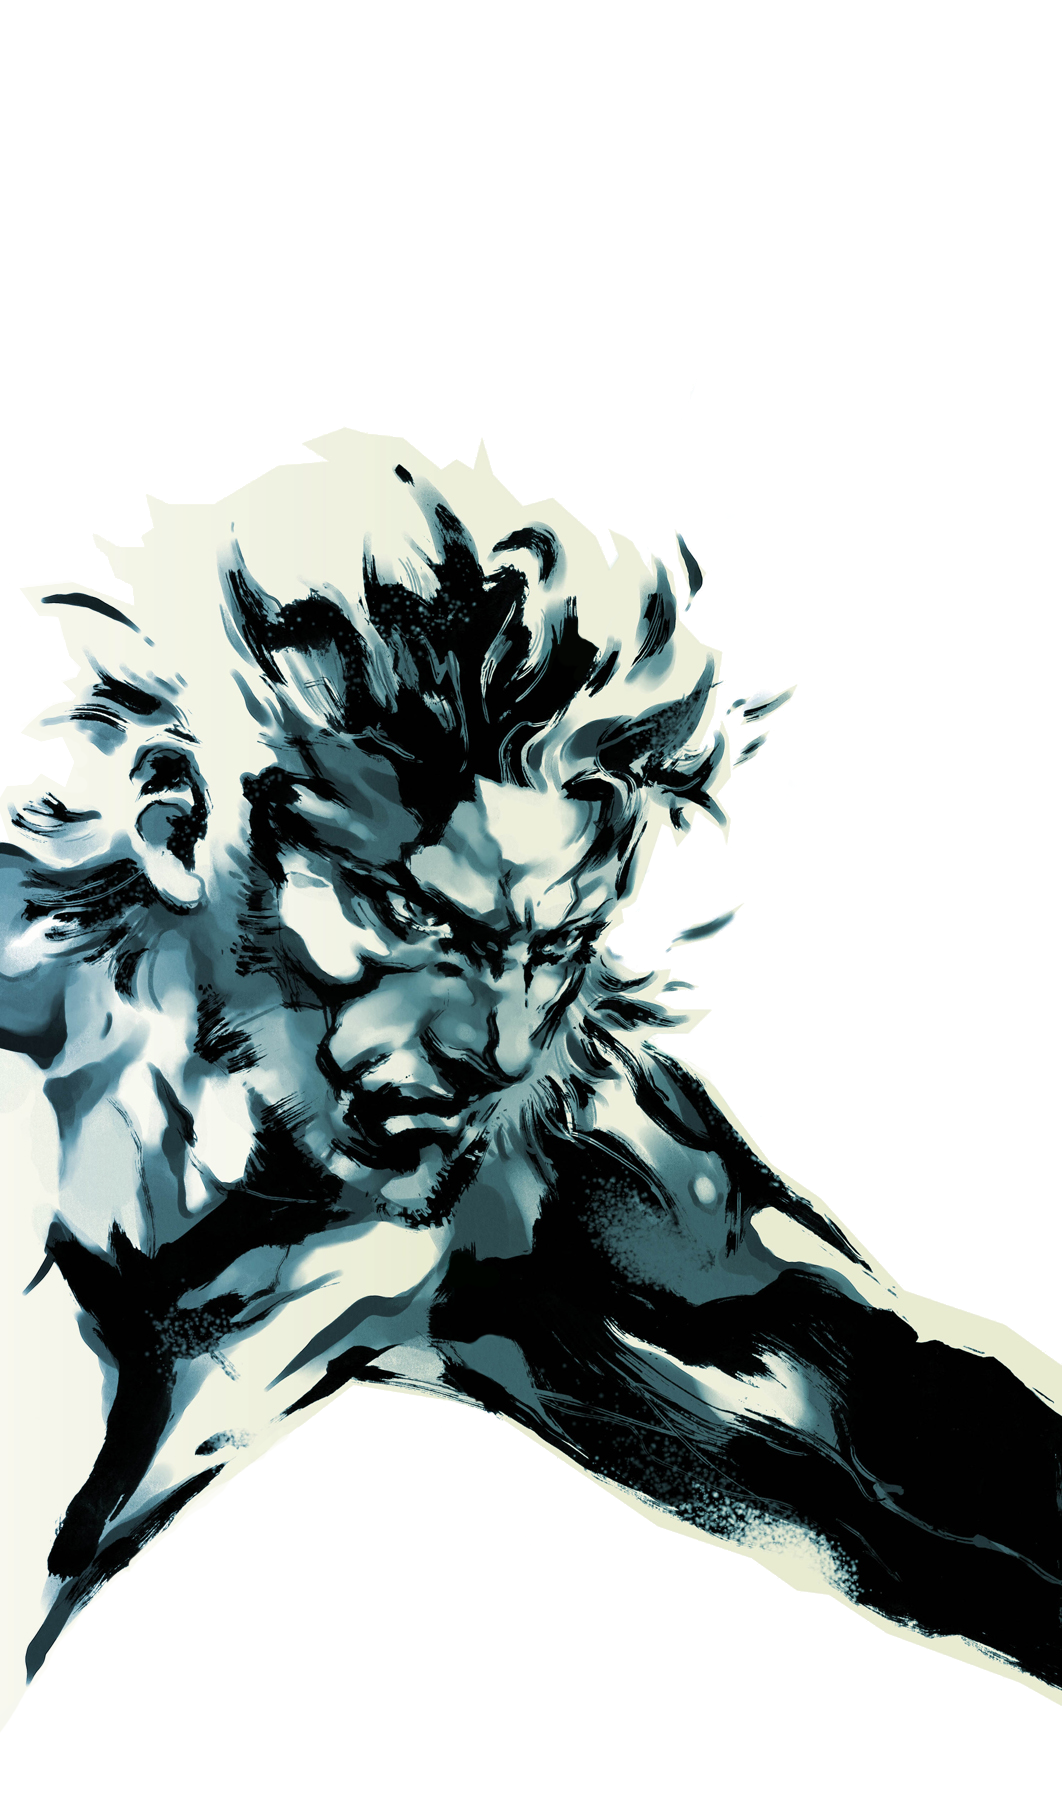
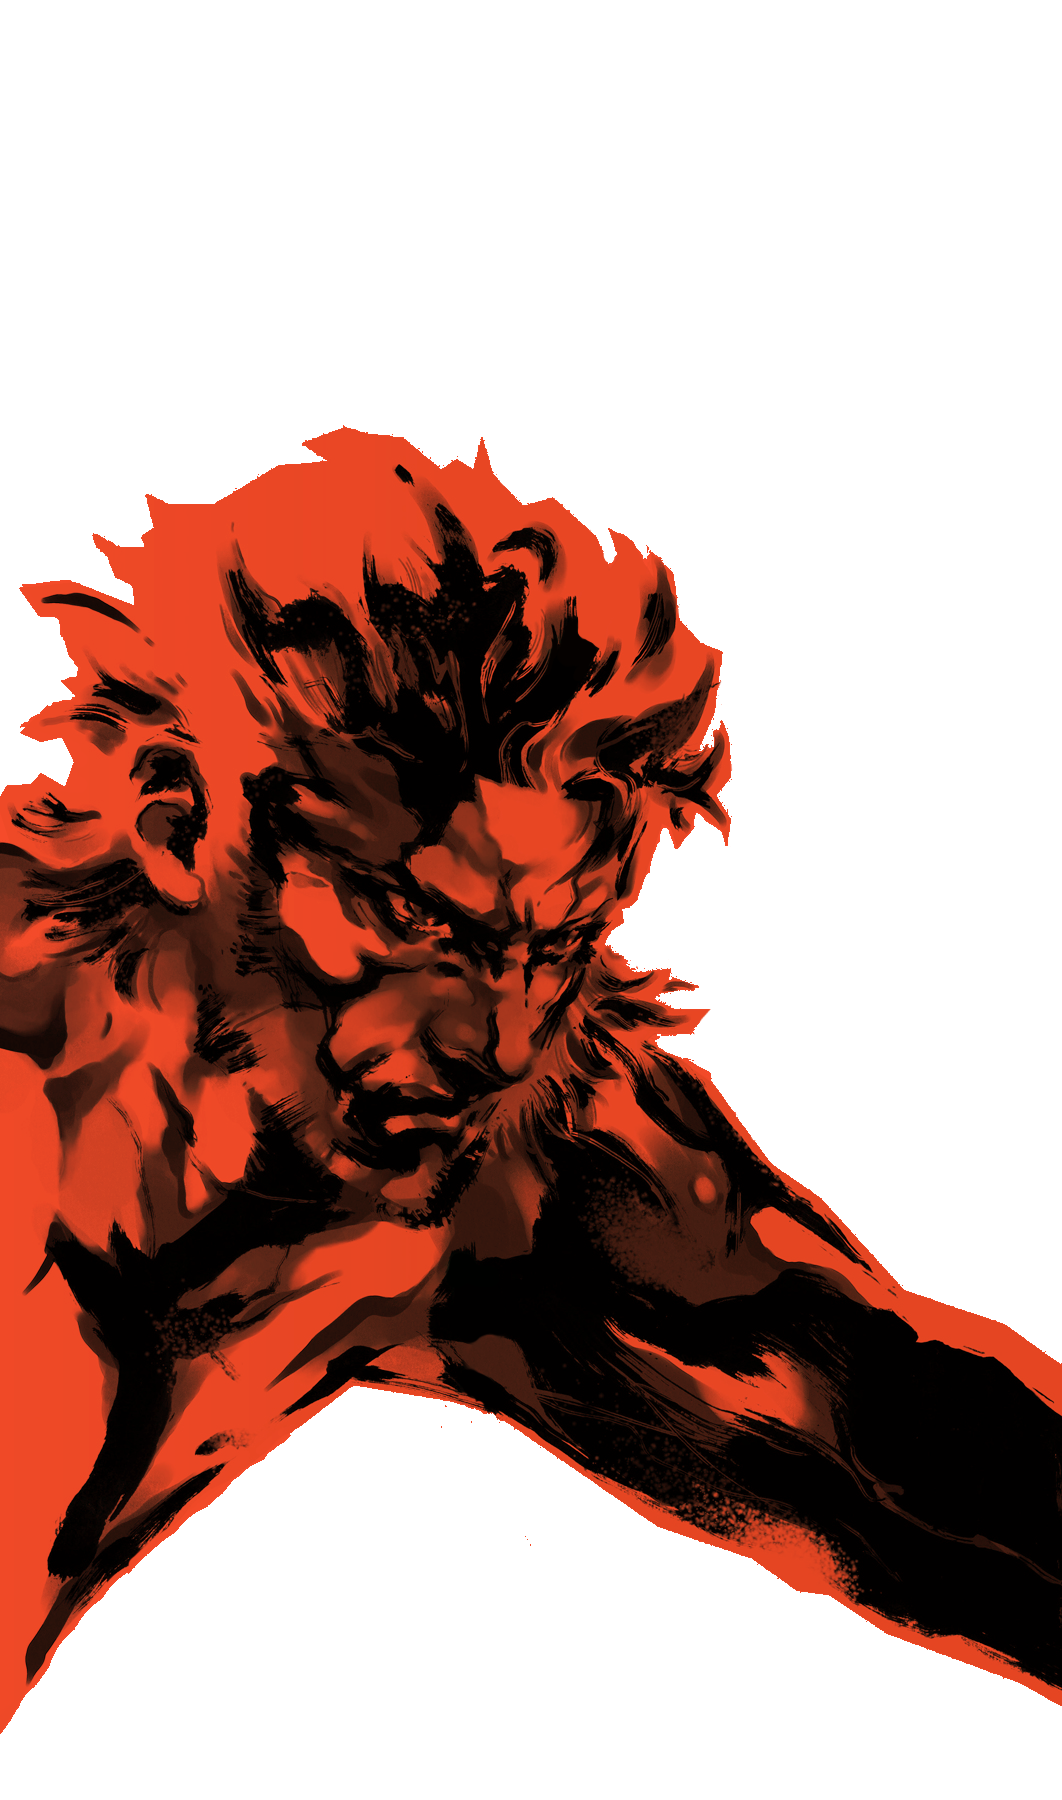
Changed Tanker Elimination style.

diff --git a/graphics/css/tanker-elimination-style.css b/graphics/css/tanker-elimination-style.css
@@ -29,9 +29,8 @@
 .featured-player-details {
     width: 1024px;
     height: 50px;
-    background: rgb(169,254,255);
-    background: linear-gradient(80deg, rgba(169,254,255,1) 0%, rgba(231,255,225,1) 100%);
-    color: #340085;
+    background: #2D3142;
+    color: #FFC43D;
 }
 
 .twitch-logo {
@@ -58,6 +57,7 @@
     padding-top: 9px;
     font-size: 20pt;
     text-align: right;
+    color: #7C8584;
 }
 
 .featured-player-details .player-name {
@@ -86,7 +86,7 @@
 body {
     width: 1920px;
     height: 1080px;
-    color: #340085;
+    color: #7C8584;
     margin: 0;
     padding: 0;
     background-color: transparent;
@@ -99,7 +99,7 @@ body {
     font-size: 21pt;
     height: 30px;
     padding: 5px;
-    color: white;
+    color: #7C8584;
     margin-top: -22px;
 }
 
@@ -342,9 +342,9 @@ body {
 .small-player-details {
     width: 384px;
     height: 50px;
-    color: #340085;
+    color: #FFC43D;
     overflow: hidden;
-    background: linear-gradient(80deg, rgba(169,254,255,1) 0%, rgba(231,255,225,1) 100%);
+    background: #2D3142;
 }
 
 .small-player-details.showing {
@@ -353,7 +353,7 @@ body {
 
 .small-player-details.hidden {
     color: transparent;
-    background: linear-gradient(80deg, rgba(169,254,255,0) 0%, rgba(231,255,225,0) 100%);
+    background: rgba(0,0,0,0);
 }
 
 .small-player-details.hiding {
@@ -374,15 +374,14 @@ footer {
     bottom: 0;
     width: 100%;
     height: 60px;
-    background: rgb(169,254,255);
-    background: linear-gradient(80deg, rgba(169,254,255,1) 0%, rgba(231,255,225,1) 100%);
+    background: #2D3142;
     font-size: 42px;
-    color: #340085;
+    color: #FFC43D;
 }
 
 footer > img {
     width: 400px;
-    margin-top: -465px;
+    margin-top: -454px;
     float: left;
     margin-left: 0;
 }
@@ -399,9 +398,8 @@ footer > span {
 .statistics {
     height: 70px;
     width: 364px;
-    background: rgb(169,254,255);
     background: linear-gradient(80deg, rgba(169,254,255,1) 0%, rgba(231,255,225,1) 100%);
-    color: #340085;
+    color: #FFC43D;
     padding: 10px;
     font-size: 21pt;
     float: left;
@@ -418,7 +416,7 @@ footer > span {
 .timer {
     height: 120px;
     width: 100%;
-    color: white;
+    color: #F13C21;
     font-size: 70pt;
     text-align: center;
     padding-right: 38px;

diff --git a/graphics/js/teal-hex.js b/graphics/js/teal-hex.js
@@ -16,7 +16,7 @@ var w = c.width = 1920,
         sparkDist: 10,
         sparkSize: 2,
 
-        color: 'hsl(207,100%,10%)',
+        color: 'hsl(0,100%,10%)',
         baseLight: 0,
         addedLight: 0, // [50-10,50+10]
         shadowToTimePropMult: 0,
